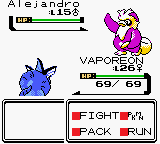
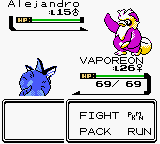
Funcionalidad de intro

diff --git a/script.js b/script.js
@@ -1,9 +1,28 @@
 const btnA = document.getElementById('btnA');
+const btnB = document.getElementById('btnB');
+const btnr = document.getElementById('btnr');
+const btnl = document.getElementById('btnl');
+const btnu = document.getElementById('btnu');
+const btnd = document.getElementById('btnd');
+
 const videoElement = document.getElementById('video');
 const audioElement = document.getElementById('audio');
 const audioElement2 = document.getElementById('audioTitulo');
-const container = document.querySelector('.gameStart'); // El contenedor del video
+
+const introCont = document.querySelector('.gameStart'); 
+const battleCont = document.querySelector('.gameBattle');
+const pokDo = document.querySelector('.pokDo');
+
+const do1 = document.querySelector('.do1');
+const do2 = document.querySelector('.do2');
+const do3 = document.querySelector('.do3');
+const do4 = document.querySelector('.do4');
+const attack = document.querySelector('.attack');
+
 let starInterval;
+let intro = true;
+let battle = false;
+let action = false;
 
 // Función para iniciar la generación de estrellas
 function getCenter(element) {
@@ -18,12 +37,12 @@ function getRandomTopValue(min, max) {
 }
 
 function createStar() {
-    const center = getCenter(container);
+    const center = getCenter(introCont);
     const star = document.createElement('div');
     star.classList.add('HoHoStars');
-    const randomTop = getRandomTopValue(-20, 20);
+    const randomTop = getRandomTopValue(-40, 40);
     star.style.marginTop = `${randomTop}px`;
-    container.appendChild(star);
+    introCont.appendChild(star);
     setTimeout(() => {
         star.remove();
     }, 4000);
@@ -33,38 +52,125 @@ function startStarGeneration() {
     starInterval = setInterval(createStar, 300);
 }
 
-// Función que maneja el clic del botón "A"
-function handleBtnAClick() {
-    // Si el video está pausado
-    if (videoElement.paused & window.getComputedStyle(videoElement).display != 'none') {
-        videoElement.play();
-        audioElement.play();
-        console.log('Se inicia el video por que se para por el navegador');
-    } 
-    // Si el video está reproduciéndose
-    else if (videoElement.paused == false & window.getComputedStyle(videoElement).display != 'none') {
-        videoElement.pause();
-        audioElement.pause();
-        videoElement.style.display = 'none';
-        startStarGeneration();
-        audioElement2.play();
-        console.log('Se generan estrellas por video parado');
-    }
-    // Caso 3: Si el video está oculto (display: none), ocultar el contenedor
-    else if (window.getComputedStyle(videoElement).display == 'none') {
-        audioElement2.pause();
-        container.style.display = 'none';  // Ocultar el contenedor de estrellas
-        console.log('Video desaparecido y desaparece el gameStart');
+btnA.addEventListener('click', handleBtnAClick);
+btnB.addEventListener('click', handleBtnBClick);
+
+btnr.addEventListener('click', () => doingPokemon('der'));
+btnl.addEventListener('click', () => doingPokemon('izq'));
+btnu.addEventListener('click', () => doingPokemon('up'));
+btnd.addEventListener('click', () => doingPokemon('down'));
+
+
+function doingPokemon(texto) {
+    if (texto == 'der') {
+        if (window.getComputedStyle(do1).display == 'block') {
+            do1.style.display = 'none';
+            do2.style.display = 'block';
+            do3.style.display = 'none';
+            do4.style.display = 'none';
+        } else if (window.getComputedStyle(do3).display == 'block') {
+            do1.style.display = 'none';
+            do2.style.display = 'none';
+            do3.style.display = 'none';
+            do4.style.display = 'block';
+        }
+    } else if (texto == 'izq') {
+        if (window.getComputedStyle(do2).display == 'block') {
+            do1.style.display = 'block';
+            do2.style.display = 'none';
+            do3.style.display = 'none';
+            do4.style.display = 'none';
+        } else if (window.getComputedStyle(do4).display == 'block') {
+            do1.style.display = 'none';
+            do2.style.display = 'none';
+            do3.style.display = 'block';
+            do4.style.display = 'none';
+        }
+    } else if (texto == 'up') {
+        if (window.getComputedStyle(do3).display == 'block') {
+            do1.style.display = 'block';
+            do2.style.display = 'none';
+            do3.style.display = 'none';
+            do4.style.display = 'none';
+        } else if (window.getComputedStyle(do4).display == 'block') {
+            do1.style.display = 'none';
+            do2.style.display = 'block';
+            do3.style.display = 'none';
+            do4.style.display = 'none';
+        }
+    } else if (texto == 'down') {
+        if (window.getComputedStyle(do1).display == 'block') {
+            do1.style.display = 'none';
+            do2.style.display = 'none';
+            do3.style.display = 'block';
+            do4.style.display = 'none';
+        } else if (window.getComputedStyle(do2).display == 'block') {
+            do1.style.display = 'none';
+            do2.style.display = 'none';
+            do3.style.display = 'none';
+            do4.style.display = 'block';
+        }
     }
 }
 
-// Agregar el evento de clic en el botón "A"
-btnA.addEventListener('click', handleBtnAClick);
+
+
+// Función que maneja el clic del botón "A"
+function handleBtnAClick() {
+    if(intro){
+        // Si el video está pausado
+        if (videoElement.paused & window.getComputedStyle(videoElement).display != 'none') {
+            videoElement.play();
+            audioElement.play();
+            console.log('Se inicia el video por que se para por el navegador');
+        } 
+        // Si el video está reproduciéndose
+        else if (videoElement.paused == false & window.getComputedStyle(videoElement).display != 'none') {
+            videoElement.pause();
+            audioElement.pause();
+            videoElement.style.display = 'none';
+            startStarGeneration();
+            audioElement2.play();
+            console.log('Se generan estrellas por video parado');
+        }
+        // Caso 3: Si el video está oculto (display: none), ocultar el contenedor
+        else if (window.getComputedStyle(videoElement).display == 'none') {
+            audioElement2.pause();
+            introCont.style.display = 'none';  // Ocultar el contenedor de estrellas
+            console.log('Video desaparecido y desaparece el gameStart');
+            clearInterval(starInterval);
+            intro = false;
+            battle = true;
+        }
+    }else if (battle){
+        if(window.getComputedStyle(battleCont).display == 'none'){
+            battleCont.style.display = 'block';
+            console.log("Se muestra el inicio de la batalla");
+        }else if(window.getComputedStyle(battleCont).display == 'block' && !action){
+            pokDo.style.display = 'block';
+            do1.style.display = 'block';
+            console.log("Se empieza a ver que tienen que hacer los pokemons");
+            action = true;
+        }else if(action){
+            if(window.getComputedStyle(do1).display == 'block'){
+                do1.style.display = 'none';
+                attack.style.display = 'block';
+            }
+        }
+    }
+}
+
+function handleBtnBClick() {
+    if(window.getComputedStyle(attack).display == 'block'){
+        attack.style.display = 'none';
+        do1.style.display = 'block';
+    }
+}
 
 videoElement.addEventListener('ended', function() {
     // El video ha terminado
-    videoElement.style.display = 'none';  // Ocultar el video
-    startStarGeneration();  // Iniciar la generación de estrellas
+    videoElement.style.display = 'none';  
+    startStarGeneration();  
     audioElement2.play();
     console.log('Se generan estrellas por video terminado');
 });

diff --git a/style.css b/style.css
@@ -1,7 +1,11 @@
 /** GameBoy **/
 .gameboy{
-    height: 95vh;
-    margin-top: 2%;
+    max-width: 500px;
+    max-height: 700px;
+    min-width: 300px;
+    min-height: 500px;
+    height: 100%;
+    width: 100%;
     border-radius: 15px;
     background-color: aqua;
     display: grid;
@@ -18,11 +22,25 @@
 }
 /** Pantalla **/
 .pantalla{
+    width: 100%;
+    height:100%;
+    min-width: 400px;
+    min-height: 360px;
+    border: 4px solid black;
+    border-radius: 5%;
+    background-color: black;
     grid-area: pantalla;
     display: flex;
 }
+.pantalla div{
+    border-radius: 5%;
+    width: 100%;
+    height: 100%;
+}
 /** Botones **/
 .botons{
+    width: 100%;
+    height:100%;
     grid-area: botones;
     display: grid;
     grid-template-columns:repeat(1fr,5) ;
@@ -31,8 +49,11 @@
     ".    btn3  .     .    ."
     "btn1 .     btn2  .    btn6"
     ".    btn4  .     btn5 ."
-    ".    .     .     .    ."
     ;
+}
+[class^="btn"]{
+    width: 80%;
+    height: 80%;
 }
 .btn1{
     grid-area: btn1;
@@ -48,18 +69,18 @@
 }
 .btn5{
     grid-area: btn5;
+    border-radius: 200%;
 }
 .btn6{
     grid-area: btn6;
+    border-radius: 200%;
 }
 /** INICIO **/
 .gameStart{
     visibility: visible;
-    width: 160px;
-    height: 144px;
-    border-radius: 5%;
     background-image: url(assets/inicio/start_1.png);
     background-repeat: no-repeat;
+    background-size: cover;
     overflow: hidden;
     display: grid;
     grid-template-columns: 1fr 0.5fr 0.5fr 2fr 0.5fr 0.5fr 1fr;
@@ -145,7 +166,7 @@
     background-image: url(assets/inicio/Ho-ho_start_stars_1.png);
     background-position: center;
     background-repeat: no-repeat;
-    background-size: 7px;
+    background-size: 20px;
     animation: changeStar 0.5s ease infinite, 
     moveStar 4s ease infinite;
 }
@@ -169,9 +190,10 @@
         opacity: 1;
     }
     100% {
-        transform: translate(100px, 40px); 
+        transform: translate(300px, 70px); 
     }
 }
+/** Video de Intro **/
 #video {
     width: 100%;         
     height: 100%;        
@@ -179,22 +201,44 @@
     grid-row: 1/6;
     grid-column: 1/8;
 }
-/** Batalla **/
-.battle{
-    width: 160px;
-    height: 144px;
-    margin-top: 50px;
+/** Battle **/
+.gameBattle{
+    display: none;
+    background-color:#f8f8f8;
     background-image: url(assets/batalla/pre_battle_fran.png);
     background-repeat: no-repeat;
-    display: grid;
-    grid-template-columns: 1fr 0.5fr 0.5fr 2fr 0.5fr 0.5fr 1fr;
-    grid-template-rows: 2fr 1fr 1fr 1fr 2fr;
-    grid-template-areas: 
-    ". . . . . . ."
-    ". . t t t . ."
-    ". . . . . . ."
-    "w w w w w w w"
-    "w w w w w w w"
-    ;
-    overflow: hidden;
+    background-size: cover;
+}
+/** Hacer Pokemon **/
+.pokDo{
+    display: none;
+    background-image: url(assets/batalla/battle_made_1.png);
+    background-repeat: no-repeat;
+    background-size: cover;
+}
+.pokDo > [class^="do"]{
+    display: none;
+    background-repeat: no-repeat;
+    background-position: bottom right;
+    background-size: 60%;
+}
+.do1{
+    background-image: url(assets/batalla/WhatToDo_1.png);
+}
+.do2{
+    background-image: url(assets/batalla/WhatToDo_2.png);
+}
+.do3{
+    background-image: url(assets/batalla/WhatToDo_3.png);
+}
+.do4{
+    background-image: url(assets/batalla/WhatToDo_4.png);
+}
+/** Accion de Atacar **/
+.attack{
+    display: none;
+    background-repeat: no-repeat;
+    background-position: bottom right;
+    background-size: contain;
+    background-image: url(assets/batalla/attack.png);
 }

diff --git a/index.html b/index.html
@@ -12,7 +12,7 @@
     </head>
     <body>
         <div class="container-fluid vh-100">
-            <div class="d-flex justify-content-center">
+            <div class="d-flex justify-content-center align-items-center h-100">
                 <div class="gameboy">
                     <div class="pantalla">
                         <div class="gameStart">
@@ -33,14 +33,22 @@
                                 Tu navegador no soporta el elemento de audio.
                             </audio>
                         </div>
-
+                        <div class="gameBattle">
+                            <div class="pokDo">
+                                <div class="do1"></div>
+                                <div class="do2"></div>
+                                <div class="do3"></div>
+                                <div class="do4"></div>
+                                <div class="attack"></div>
+                            </div>
+                        </div>
                     </div>
                     <div class="botons">
-                        <input type="button" value="←" class="btn1">
-                        <input type="button" value="→" class="btn2">
-                        <input type="button" value="↑" class="btn3">
-                        <input type="button" value="↓" class="btn4">
-                        <input type="button" value="B" class="btn5">
+                        <input type="button" value="←" class="btn1" id="btnl">
+                        <input type="button" value="→" class="btn2" id="btnr">
+                        <input type="button" value="↑" class="btn3" id="btnu">
+                        <input type="button" value="↓" class="btn4" id="btnd">
+                        <input type="button" value="B" class="btn5" id="btnB">
                         <input type="button" value="A" class="btn6" id="btnA">
                     </div>
                 </div>
